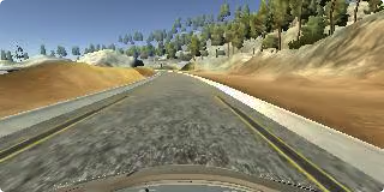
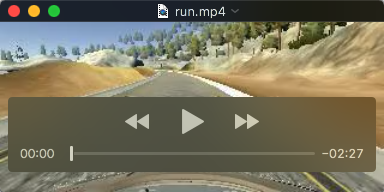
add a image

diff --git a/README.md b/README.md
@@ -8,6 +8,7 @@
 [image1]: ./examples/cnn-architecture-624x890.png
 [image2]: ./examples/Left_Center_Right.png
 [image3]: ./examples/flip.png
+[image4]: ./examples/poster.png
 
 This is a brief writeup report of Self-Driving Car Engineer P3.
 
@@ -183,8 +184,6 @@ Creating video run, FPS=60
 [MoviePy] >>>> Video ready: run.mp4 
 ```
 
-Here is a video example that the simulator vehicle drives on Track 1 autonomously, recording by center camara.
+Here is a video in the '/examples' that the simulator vehicle drives on Track 1 autonomously, recording by center camara.
 
-<video id="video" controls="" preload="none" poster="./examples/poster.png">
-      <source id="mp4" src="./examples/run.mp4" type="video/mp4">
-      </video>
+![alt text][image4]
